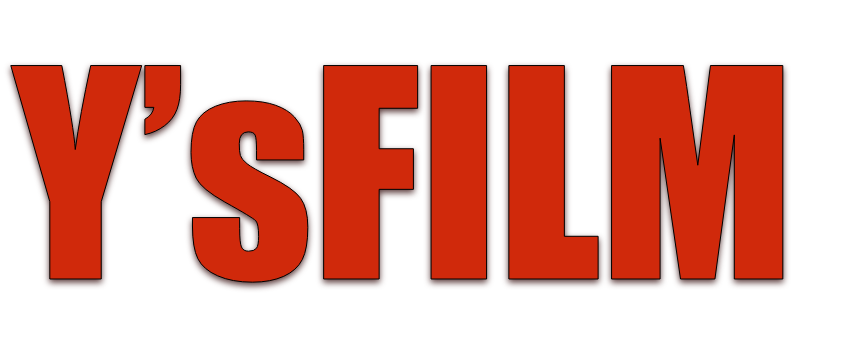
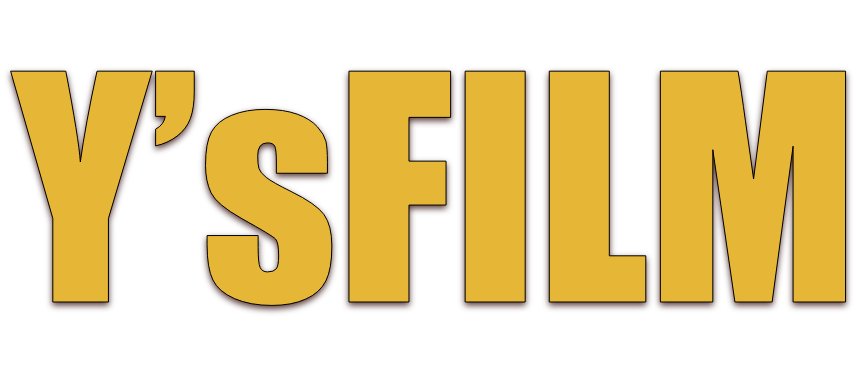
add photos

diff --git a/src/components/header/styles/header.js b/src/components/header/styles/header.js
@@ -9,6 +9,7 @@ export const Background = styled.div`
 
     @media (max-width: 1100px) {
     ${({ dontShowOnSmallViewPort }) => dontShowOnSmallViewPort && `background: none;`}
+
   }
 `;
 
@@ -169,7 +170,7 @@ export const PlayButton = styled.button`
   transition: background-color 0.2s;
 
   &:hover {
-    background-color: #ff1e1e;
+    background-color: #e59909;
     color: #fff;
   }
 `
@@ -192,7 +193,7 @@ export const Profile = styled.div`
 
 export const ButtonLink = styled(ReactRouterLink)`
   display: flex;
-  background-color: #e50914;
+  background-color: #e59909;
   width: 84px;
   height: fit-content;
   color: white;
@@ -204,7 +205,7 @@ export const ButtonLink = styled(ReactRouterLink)`
   text-decoration: none;
 
   &:hover{
-    background-color: #f40612;
+    background-color:#e59909;
   }
 `;
 

diff --git a/src/components/loading/styles/loading.js b/src/components/loading/styles/loading.js
@@ -16,8 +16,7 @@ export const Spinner = styled.div`
   position: fixed;
   width: 100%;
   height: 100%;
-  background-color: black;
-  z-index: 999;
+  background-color: #011937;
 
   :after {
     content: '';
@@ -27,10 +26,10 @@ export const Spinner = styled.div`
     background-image: url(/images/misc/spinner.png);
     background-size: contain;
     background-repeat: no-repeat;
-    margin-top: -150px;
-    margin-left: -75px;
-    width: 150px;
-    height: 150px;
+    margin-top: -175px;
+    margin-left: -95px;
+    width: 200px;
+    height: 200px;
     animation-name: spin;
     animation-duration: 1000ms;
     animation-iteration-count: infinite;
@@ -78,6 +77,7 @@ export const Picture = styled.img`
   left: 50%;
   margin-top: -100px;
   margin-left: -22px;
+  z-index: 100;
 `;
 
 

diff --git a/src/components/card/styles/card.js b/src/components/card/styles/card.js
@@ -68,7 +68,7 @@ export const Meta = styled.div`
   position: absolute;
   bottom: 0;
   padding: 10px;
-  background-color: #0000008f;
+  background-color: #e59909;
 `;
 
 export const Image = styled.img`
@@ -138,7 +138,7 @@ export const Feature = styled.div`
   height: 360px;
   background-position-x: right;
   background-repeat: no-repeat;
-  background-color: black;
+  background-color: #e59909;
 
   @media (max-width: 1000px) {
     height: auto;

diff --git a/src/components/player/styles/player.js b/src/components/player/styles/player.js
@@ -62,8 +62,8 @@ export const Close = styled.button`
 `;
 
 export const Button = styled.button`
-  background-color: #e50914;
-  border-color: #ff0a16;
+  background-color: #e59909;
+  border-color: #e59909;
   width: 115px;
   height: 45px;
   text-transform: uppercase;
@@ -79,6 +79,6 @@ export const Button = styled.button`
 
   &:hover {
     transform: scale(1.05);
-    background-color: #ff0a16;
+    background-color: #09e524fa;
   }
 `;

diff --git a/src/components/opt-form/styles/opt-form.js b/src/components/opt-form/styles/opt-form.js
@@ -26,7 +26,7 @@ export const Button = styled.button`
   display: flex;
   align-items: center;
   height: 70px;
-  background: #e50914;
+  background: #e59909;
   color: white;
   text-transform: uppercase;
   padding: 0 32px;
@@ -35,7 +35,7 @@ export const Button = styled.button`
   cursor: pointer;
 
   &:hover{
-    background: #f40612;
+    background:#e59909;
   }
 
   @media (max-width: 1000px) {

diff --git a/src/global-styles.js b/src/global-styles.js
@@ -4,7 +4,7 @@ export const GlobalStyles = createGlobalStyle`
   *, *:before, *:after {
     box-sizing: border-box;
   }
-
+  /* #e59909 */
   html, body{
     height: 100%;
     font-family: 'Helvetica Neue', Helvetica, Arial, sans-serif;

diff --git a/src/components/form/styles/form.js b/src/components/form/styles/form.js
@@ -78,7 +78,7 @@ export const Input = styled.input`
 `;
 
 export const Submit = styled.button`
-  background: #e50914;
+  background: #e59909;
   border-radius: 4px;
   font-size: 16px;
   font-weight: bold;

diff --git a/src/components/jumbotron/styles/jumbotron.js b/src/components/jumbotron/styles/jumbotron.js
@@ -25,6 +25,7 @@ export const Inner = styled.div`
 
 export const Pane = styled.div`
   width: 50%;
+  text-align: center;
 
   @media (max-width: 1000px) {
     width: 100%;
